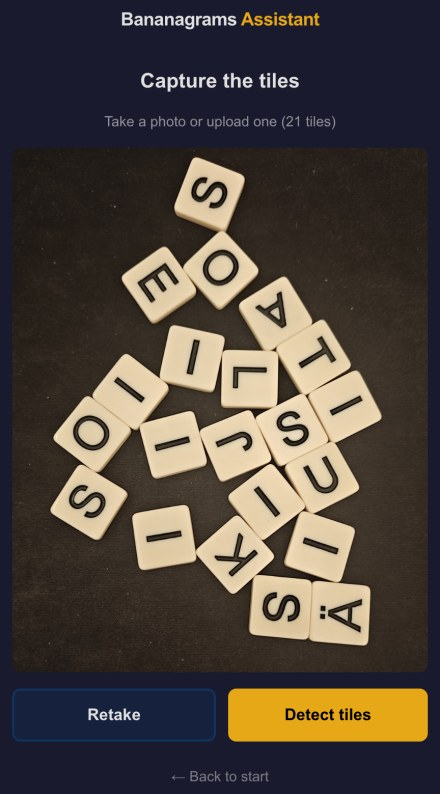
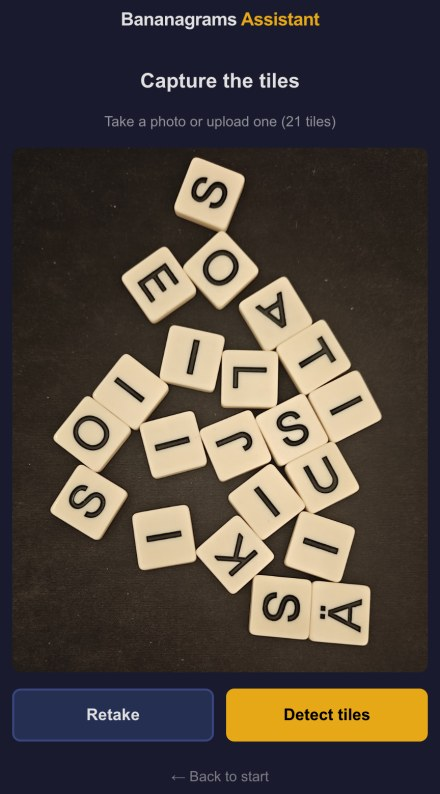
Recapture the demo assets on the new palette
The screenshots and GIF still showed panels that blended into the page and
the old stock status colours. Recaptured the whole flow against the current
build.

Latency figures are now the median of 8 consecutive warm requests rather than
a single run, with the spread stated. The stats panel in the screenshot reads
higher than the table because a browser and a dev server were competing for
the CPU while the shot was taken, which the README now says outright instead
of leaving a reader to notice the mismatch.

Changed region(s): [[0.0295, 0.8463, 0.5318, 0.937], [0.65, 0.8766, 0.8568, 0.9068]]

diff --git a/README.md b/README.md
@@ -9,7 +9,7 @@ A full-stack computer vision + search project: a YOLO11x segmentation model read
 </p>
 
 <p align="center">
-  <em>Real run, nothing staged: 21 tiles detected at 97% mean confidence in 1.6 s, then packed into a full grid in 4 ms.</em>
+  <em>Real run, nothing staged: 21 tiles detected at 97% mean confidence in 1.4 s, then packed into a full grid in 7 ms.</em>
 </p>
 
 ---
@@ -48,7 +48,7 @@ O I K E U S L A I T O S
     Ä
 ```
 
-`OIKEUSLAITOS` × `ISKIJÄ` × `SIILI`: 21 tiles, zero left over, every horizontal and vertical run a valid Finnish word. Found in **4 ms**.
+`OIKEUSLAITOS` × `ISKIJÄ` × `SIILI`: 21 tiles, zero left over, every horizontal and vertical run a valid Finnish word. Found in **7 ms**.
 
 ---
 
@@ -116,14 +116,14 @@ End-to-end on an **Apple M3, CPU-only inference** (no GPU, no CoreML/TensorRT ac
 
 | Stage | Time |
 |---|---|
-| Preprocess (image decode) | 11 ms |
-| YOLO inference | 1 101 ms |
-| Postprocess (NMS, annotation, encoding) | 496 ms |
-| **Detection total** | **1 610 ms** |
-| Solver (21 tiles) | 4 ms |
-| **Photo → finished grid** | **~1.6 s** |
+| Preprocess (image decode) | 12 ms |
+| YOLO inference | 930 ms |
+| Postprocess (NMS, annotation, encoding) | 452 ms |
+| **Detection total** | **1 394 ms** |
+| Solver (21 tiles) | 7 ms |
+| **Photo → finished grid** | **~1.4 s** |
 
-Those are the figures from the run shown in the screenshots above. Detection lands between roughly 1.3 s and 1.6 s depending on what else the machine is doing, and the very first request after startup is slower while the model warms up.
+Detection is the median of 8 consecutive warm requests, which ranged 1 349 to 1 540 ms. Two things move it: the first request after startup is slower while the model warms up, and inference slows down when it is sharing the CPU. The stats panel in the screenshot above reads higher than this table for exactly that reason, since a browser and a dev server were running alongside it while the shot was taken.
 
 The solver is now a rounding error. Reading the physical world is the entire cost.
 
@@ -301,7 +301,7 @@ with no extra configuration. See [RUNNING.md](RUNNING.md) for more detail.
 // response
 {
   "solved": true,
-  "time_ms": 4,
+  "time_ms": 7,
   "grid": [
     [null, null, null, null, null, null, "S",  null, null, null, null, null],
     [null, null, "I",  null, null, null, "I",  null, null, null, null, null],
@@ -330,8 +330,8 @@ The request body may use raw UTF-8 or `\uXXXX` escapes for `ä` and `ö`. Both d
   "letter_list": [{ "letter": "j", "confidence": 0.985 }, ...],
   "annotated_image": "<base64 jpeg>",
   "count": 21,
-  "timing":      { "preprocess_ms": 11, "inference_ms": 1101, "postprocess_ms": 496, "total_ms": 1610 },
-  "yolo_timing": { "preprocess_ms": 2,  "inference_ms": 983,  "postprocess_ms": 6 },
+  "timing":      { "preprocess_ms": 12, "inference_ms": 930, "postprocess_ms": 452, "total_ms": 1394 },
+  "yolo_timing": { "preprocess_ms": 2,  "inference_ms": 882, "postprocess_ms": 7 },
   "avg_confidence": 97,
   "thresholds": { "nms": 0.8, "confidence": 0.8 }
 }
